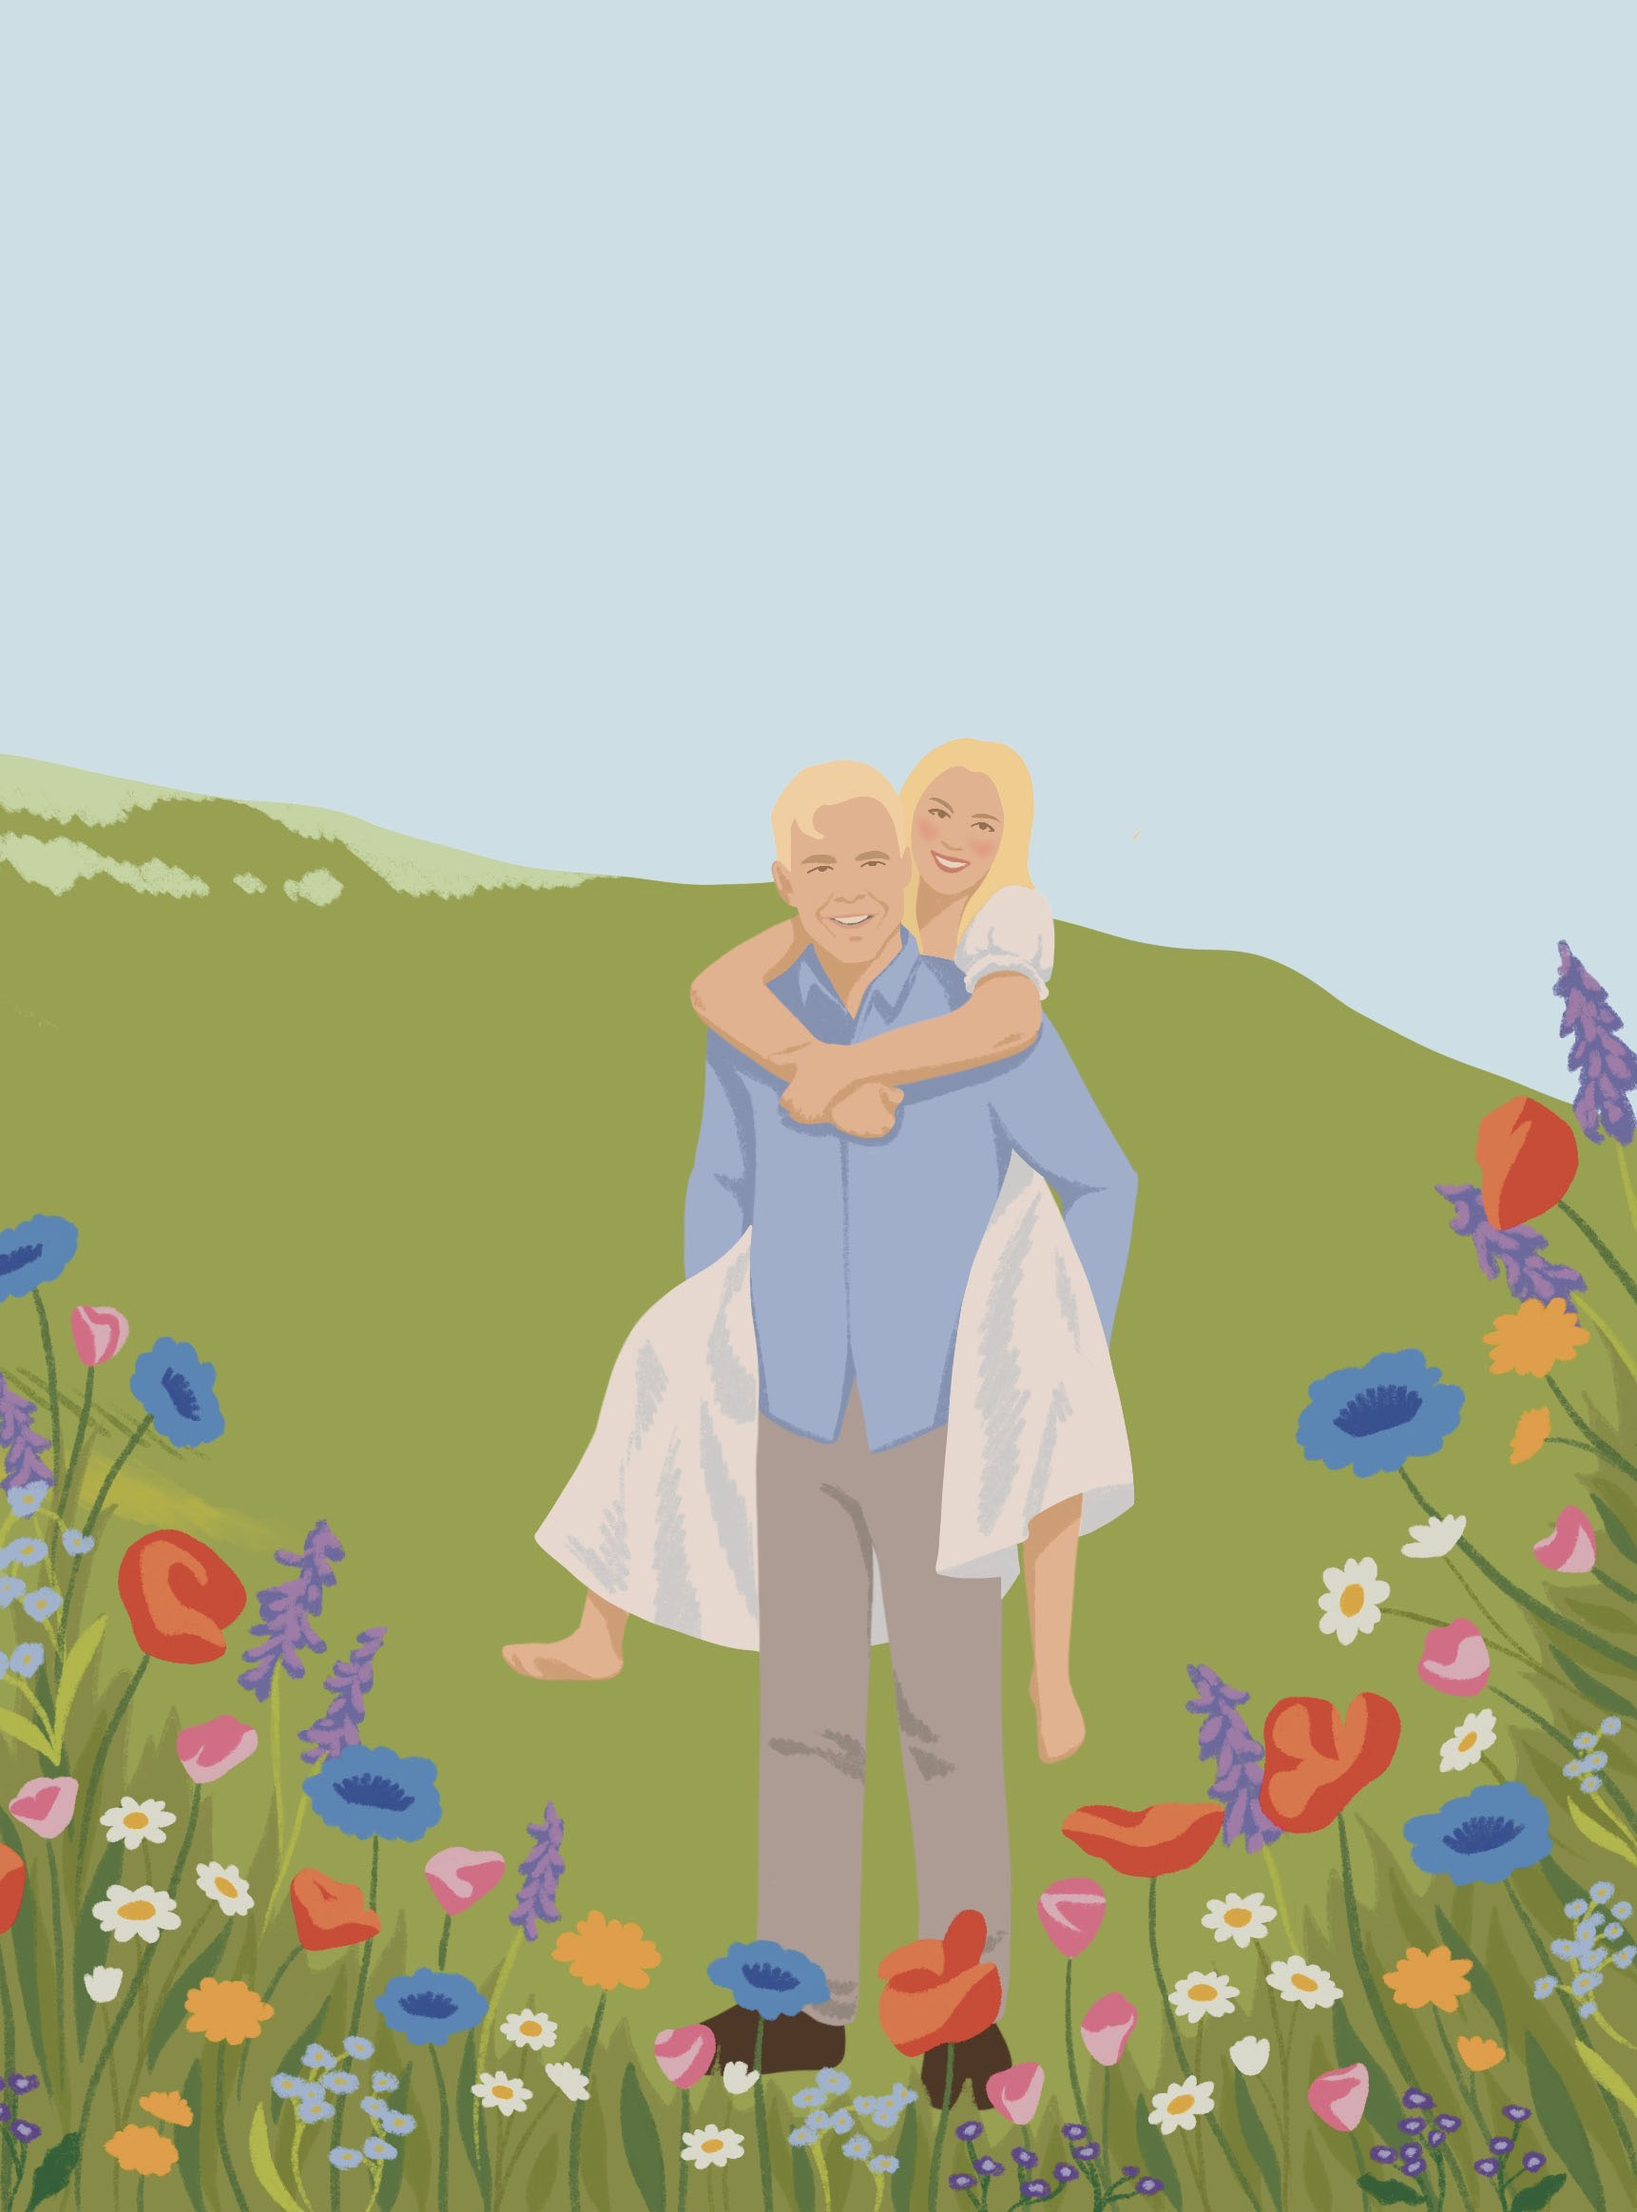
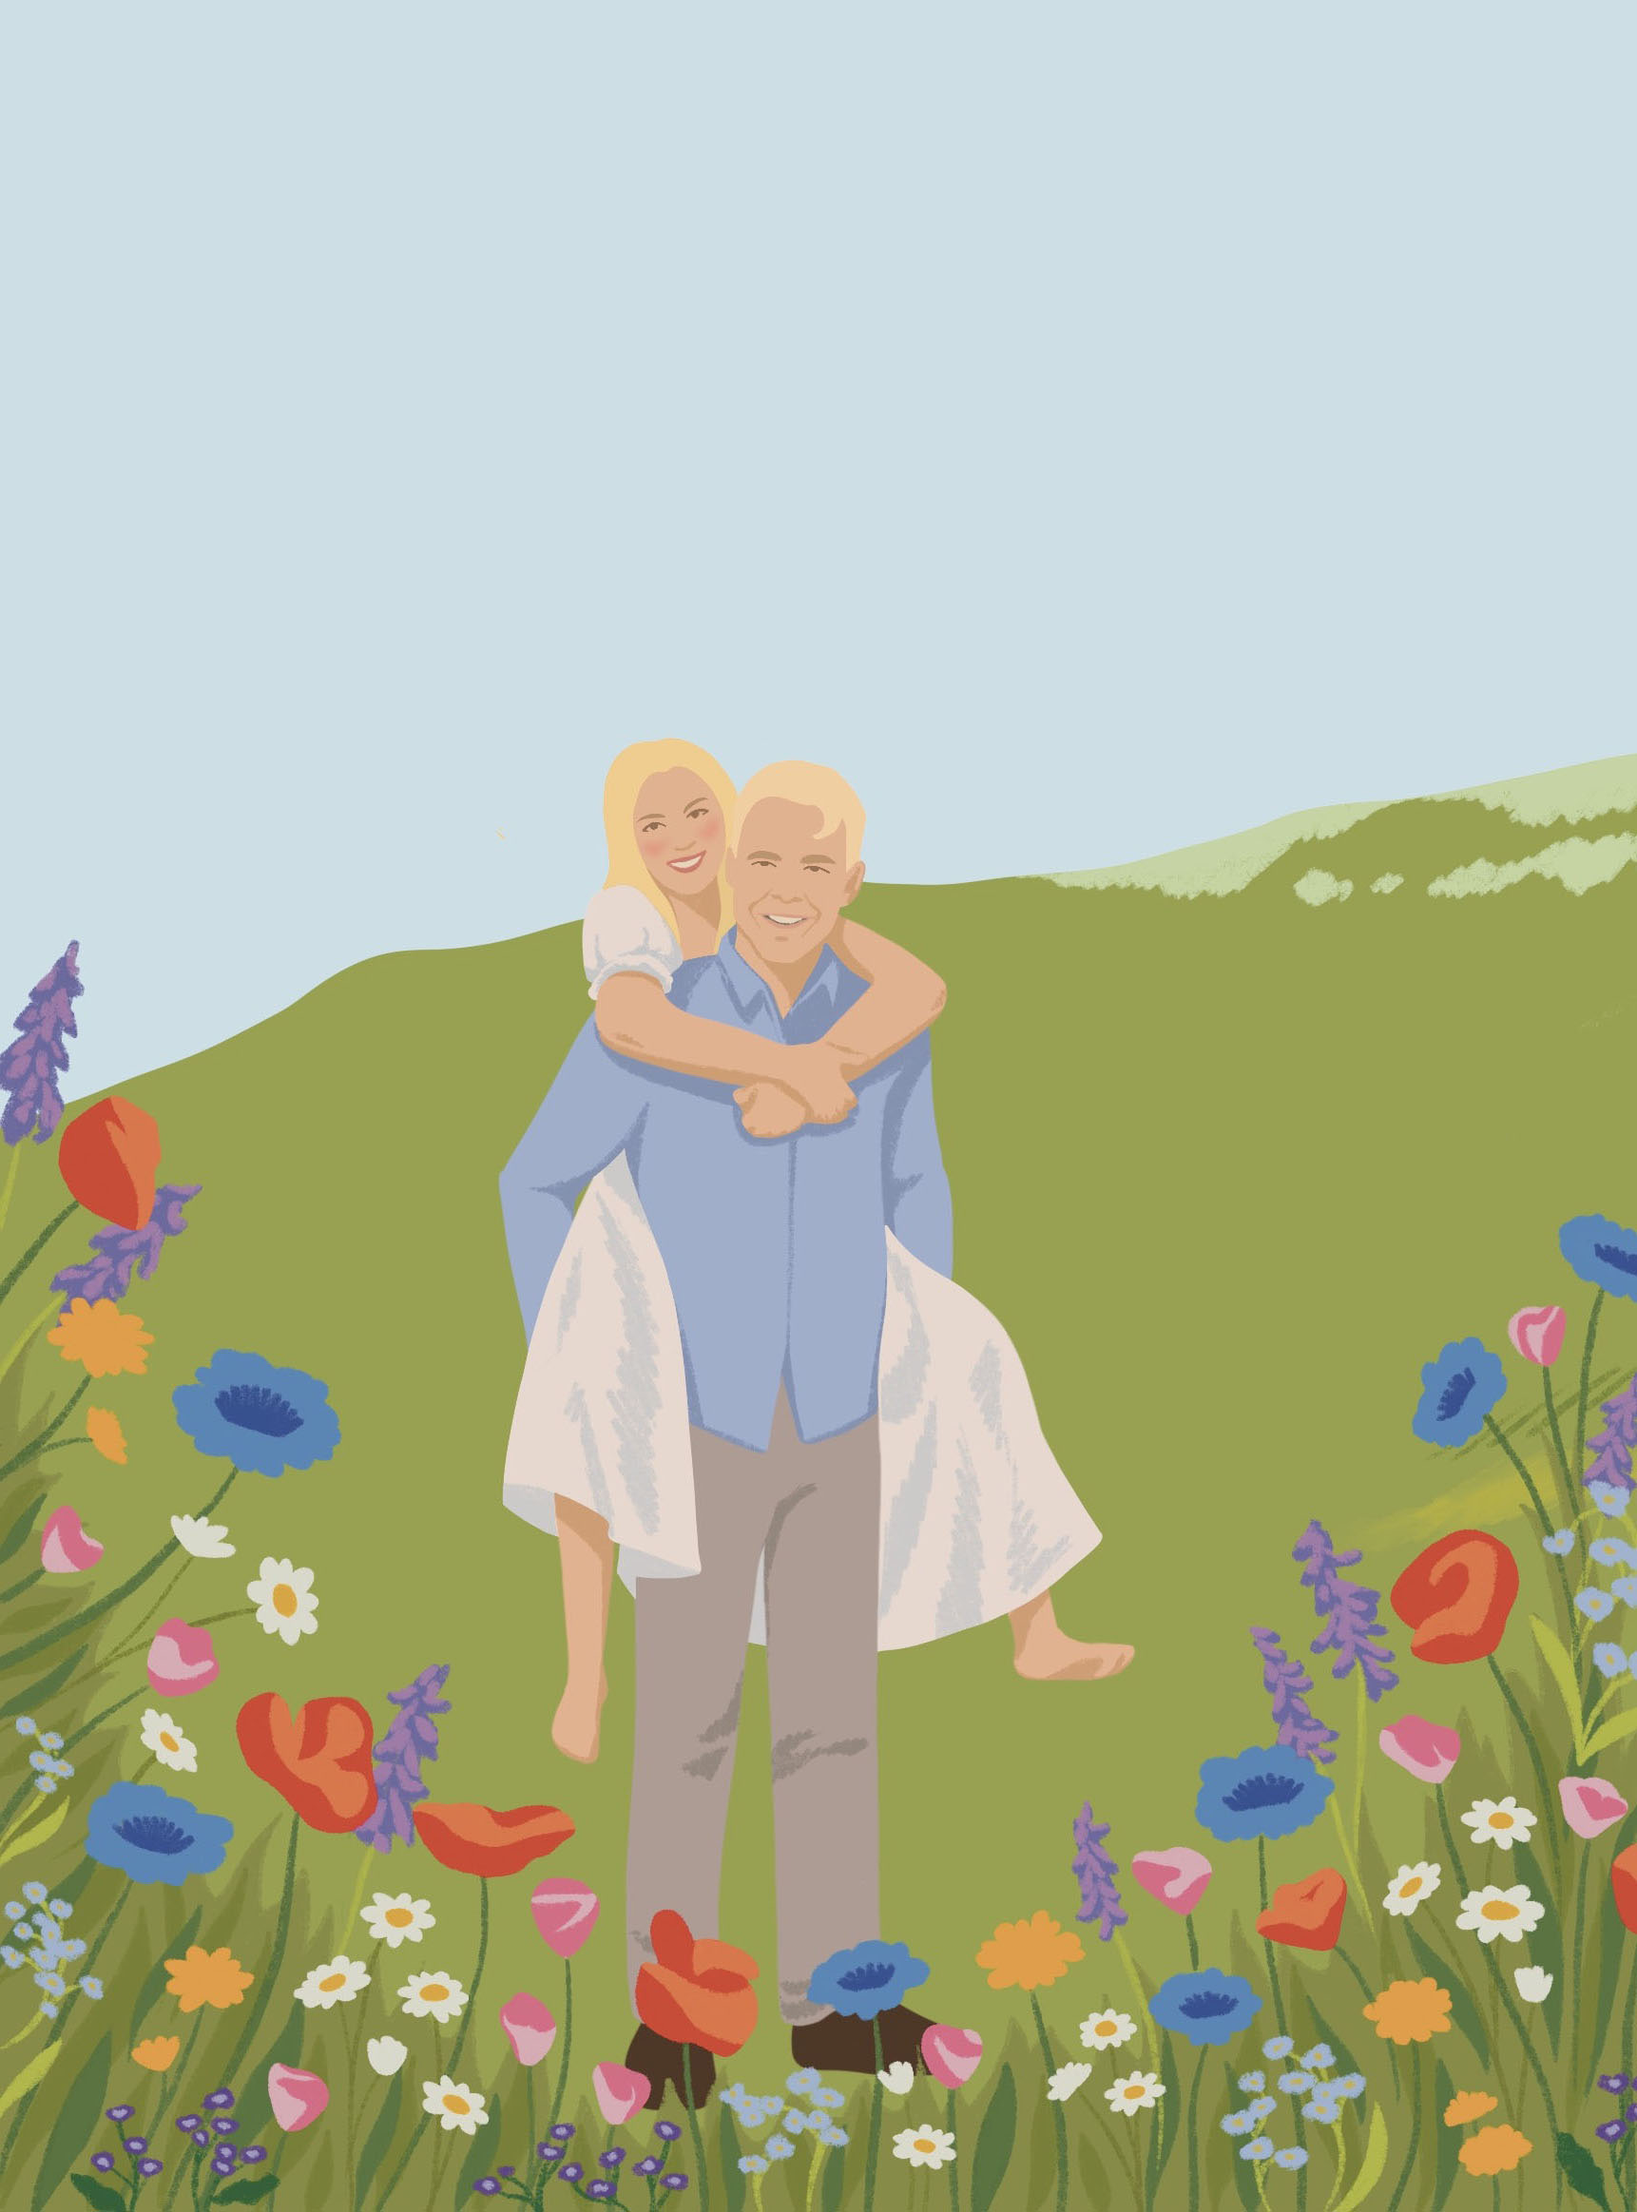
ddd

diff --git a/app/routes/index.tsx b/app/routes/index.tsx
@@ -22,13 +22,20 @@ export default function Index() {
 
   return (
     <main>
-      <div className="pb-safe relative flex h-[100svh] h-[100dvh] flex-col min-h-iphone-safe min-[800px]:flex-row">
+      <div className="pb-safe relative flex h-[100svh] h-[100dvh] w-screen flex-col overflow-hidden min-h-iphone-safe min-[800px]:flex-row">
         <div className=" flex flex-1 basis-full">
           <div className="absolute inset-0 -z-10">
             <Image
               loaderUrl="/api/image"
-              className="h-full w-full overflow-visible object-cover object-left max-[700px]:translate-x-[-10vw]"
+              className="h-full w-full overflow-visible object-cover object-left max-[700px]:hidden"
               src="./images/forside_full.jpg"
+              alt="Louise og Lars Erik"
+              dprVariants={[1, 3]}
+            />
+            <Image
+              loaderUrl="/api/image"
+              className="h-full w-full overflow-visible object-cover min-[700px]:hidden"
+              src="./images/forside-d.jpg"
               alt="Louise og Lars Erik"
               dprVariants={[1, 3]}
             />
@@ -53,7 +60,7 @@ export default function Index() {
           </div> */}
         </div>
         <div className="flex flex-1 basis-full flex-col content-center items-center justify-center gap-2 text-center text-slate-900">
-          <div className="grid justify-items-center gap-2 rounded-md bg-white/50 p-8 backdrop-blur">
+          <div className="grid justify-items-center gap-2 rounded-md bg-white/50 p-4 backdrop-blur sm:p-8">
             <h2 className="text-4xl font-light sm:text-5xl">
               Grønolen Fjellgard
             </h2>
